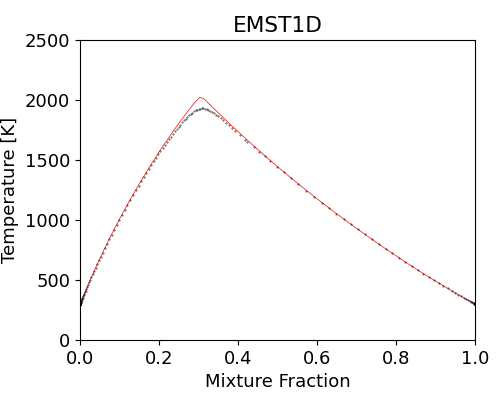
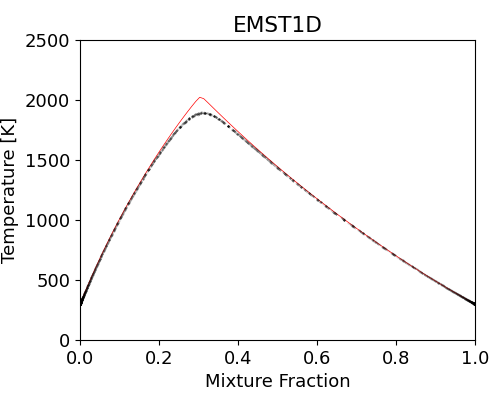
final for EMST; change README with svg equations

diff --git a/PaSR_main.py b/PaSR_main.py
@@ -273,12 +273,13 @@ if __name__ == "__main__":
     plt.figure(2, figsize=(5,4))
     plt.plot(mfs, Teq, 'r-', lw=0.5)
     mf_arr = []
-    for j in range(Ntimes-100, Ntimes, 5):
+    # for j in range(Ntimes-100, Ntimes, 5): # for EMST
+    for j in range(Ntimes-1, Ntimes, 1): # for others
         mf = np.array([get_mixture_fraction(gas, inputs['fuel'], inputs['oxidizer'], 
                 particle_data[j,i,3:]) for i in range(Nparticles)])
         Tp = particle_data[j,:,1]
         mf_arr.append(mf)
-        plt.plot(mf, Tp, 'k.', ms=0.8, alpha=0.2)
+        plt.plot(mf, Tp, 'k.', ms=0.8, alpha=0.8) # alpha = 0.4 for EMST
     plt.xlim([0,1])
     plt.ylim([0,2500])
     plt.title(casename)

diff --git a/README.md b/README.md
@@ -32,35 +32,39 @@ The mixing happens on the edges of EMST tree, with:
 
 <img src="https://latex.codecogs.com/svg.image?\frac{d\phi_i}{dt}=-\alpha\frac{1}{w_i}\sum_v^{N_T-1}B_v\{(\phi_i-\phi_{n_v})\delta_{im_v}+(\phi_i-\phi_{m_v})\delta_{in_v}\}"/>
 
-The parameter $\alpha$ controls the variance decay rate. Denoting <img src="https://latex.codecogs.com/svg.image?d\phi_i=\frac{1}{\alpha}\frac{d\phi_i}{dt}" />, then from time <img src="https://latex.codecogs.com/svg.image?t"/> to <img src="https://latex.codecogs.com/svg.image?t+\delta t"/>, one has:
+The parameter <img src="https://latex.codecogs.com/svg.image?\alpha"/> controls the variance decay rate. Denoting<img src="https://latex.codecogs.com/svg.image?d\phi_i=\frac{1}{\alpha}\frac{d\phi_i}{dt}" style="vertical-align:middle"/>, then from time <img src="https://latex.codecogs.com/svg.image?t"/> to <img src="https://latex.codecogs.com/svg.image?t+\delta&space;t"/>, one has:
 
 <img src="https://latex.codecogs.com/svg.image?\begin{align*}Var(t&plus;\delta&space;t)-Var(t)&=\frac{1}{N}\sum_i^N(\phi_i&plus;\alpha&space;d\phi_i\delta&space;t-\bar\phi)^2&space;-&space;\frac{1}{N}\sum_i^N(\phi_i-\bar\phi)^2\\&=\frac{1}{N}\sum_i^N\left[2\alpha&space;d\phi_i\delta&space;t(\phi_i-\bar\phi)&space;&plus;&space;\alpha^2&space;d\phi_i^2&space;\delta&space;t^2\right]\\&=2\alpha&space;\delta&space;t&space;\langle&space;\phi&space;\cdot&space;d\phi&space;\rangle&space;&plus;&space;\alpha^2\delta&space;t^2\langle&space;d\phi^2\rangle\end{align*}" title="\begin{align*}Var(t+\delta t)-Var(t)&=\frac{1}{N}\sum_i^N(\phi_i+\alpha d\phi_i\delta t-\bar\phi)^2 - \frac{1}{N}\sum_i^N(\phi_i-\bar\phi)^2\\&=\frac{1}{N}\sum_i^N\left[2\alpha d\phi_i\delta t(\phi_i-\bar\phi) + \alpha^2 d\phi_i^2 \delta t^2\right]\\&=2\alpha \delta t \langle \phi \cdot d\phi \rangle + \alpha^2\delta t^2\langle d\phi^2\rangle\end{align*}" />
 
 And by variance decay rule of micro-mixing model:
-$$
-Var(t+\delta t)-Var(t) = \left[e^{-\Omega_\phi\delta t}-1\right]Var(t)  \approx -\Omega_\phi \delta t Var(t)
-$$
+
+<img src="https://latex.codecogs.com/svg.image?Var(t&plus;\delta&space;t)-Var(t)=\left[e^{-\Omega_\phi\delta&space;t}-1\right]Var(t)\approx-\Omega_\phi\delta&space;tVar(t)" title="Var(t+\delta t)-Var(t)=\left[e^{-\Omega_\phi\delta t}-1\right]Var(t)\approx-\Omega_\phi\delta tVar(t)" />
+
 Thus, following the variance decay rule, we need to let <img src="https://latex.codecogs.com/svg.image?\alpha"/> satisfy the equation
+
+<img src="https://latex.codecogs.com/svg.image?\begin{align*}\alpha^2\delta&space;t\langle&space;d\phi^2\rangle&plus;2\alpha\langle\phi\cdot&space;d\phi\rangle&plus;\Omega_\phi\langle\phi''^2\rangle=0\end{align*}" title="\begin{align*}\alpha^2\delta t\langle d\phi^2\rangle+2\alpha\langle\phi\cdot d\phi\rangle+\Omega_\phi\langle\phi''^2\rangle=0\end{align*}" />
+
+In general, <img src="https://latex.codecogs.com/svg.image?\inline&space;A\equiv\delta&space;t\langle&space;d\phi^2\rangle>0" title="\inline A\equiv\delta t\langle d\phi^2\rangle>0" />,<img src="https://latex.codecogs.com/svg.image?\inline&space;B\equiv2\langle\phi\cdot&space;d\phi\rangle<0" title="\inline B\equiv2\langle\phi\cdot d\phi\rangle<0" />, <img src="https://latex.codecogs.com/svg.image?\inline&space;C\equiv\Omega_\phi&space;\langle\phi''^2\rangle>0" title="\inline C\equiv\Omega_\phi \langle\phi''^2\rangle>0" />. To get at least one real number solution, one need:
+
+<img src="https://latex.codecogs.com/svg.image?B^2-4AC\ge0\Rightarrow\delta&space;t\le\frac{\langle\phi\cdot&space;d\phi\rangle}{\Omega_\phi\langle&space;d\phi^2\rangle\langle\phi''^2\rangle}" title="B^2-4AC\ge0\Rightarrow\delta t\le\frac{\langle\phi\cdot d\phi\rangle}{\Omega_\phi\langle d\phi^2\rangle\langle\phi''^2\rangle}" />
+
+Once <img src="https://latex.codecogs.com/svg.image?\delta&space;t"/> is selected, the mixing ratio <img src="https://latex.codecogs.com/svg.image?\alpha"/> is hence to be:
+
+<img src="https://latex.codecogs.com/svg.image?\alpha=\frac{-B&plus;\sqrt{B^2-4AC}}{2A}" title="\alpha=\frac{-B+\sqrt{B^2-4AC}}{2A}" />
+
+For multiple scalars, single <img src="https://latex.codecogs.com/svg.image?\alpha"/> could not lead to target variance decay for all scalars. So a root finding technique is employed to estimate best <img src="https://latex.codecogs.com/svg.image?\alpha"/>. 
 $$
 \begin{align*}
-\alpha^2\delta t\langle d\phi^2\rangle + 2\alpha \langle \phi \cdot d\phi \rangle + \Omega_\phi \langle\phi''^2\rangle = 0
+\alpha_{new} = \alpha_{old} \left(1-e^{-\Omega_\phi\delta t}\right)/\overline{\left(1-\frac{Var(\phi+\alpha_{old} d\phi\delta t)}{Var(\phi)}\right)}
 \end{align*}
 $$
-In general, $A\equiv\delta t\langle d\phi^2\rangle>0$, $B\equiv 2 \langle \phi \cdot d\phi \rangle <0$, $C\equiv\Omega_\phi \langle\phi''^2\rangle>0$. To get at least one real number solution, one need:
-$$
-B^2-4AC\ge0 \Rightarrow \delta t\le \frac{\langle\phi\cdot d\phi\rangle}{\Omega_\phi\langle d\phi^2\rangle\langle\phi''^2\rangle}
-$$
-Once $\delta t$ is selected, the mixing ratio $\alpha$ is hence to be:
-$$
-\alpha=\frac{-B+\sqrt{B^2-4AC}}{2A}
-$$
-
-
+Typically, the root finding process converges in 2-3 loops.
 
 
 
 
 #### 4. References
 
-+ PaSR: https://github.com/SLACKHA/pyJac/blob/master/pyjac/functional_tester/partially_stirred_reactor.py
-+ EMST: https://tcg.mae.cornell.edu/emst/
++ PaSR code: https://github.com/SLACKHA/pyJac/blob/master/pyjac/functional_tester/partially_stirred_reactor.py
++ EMST code: https://tcg.mae.cornell.edu/emst/
++ EMST paper: S. Subramaniam, S.B. Pope, A mixing model for turbulent reactive flows based on Euclidean minimum spanning trees, *Combust. Flame* 115 (1998) 487-514.
